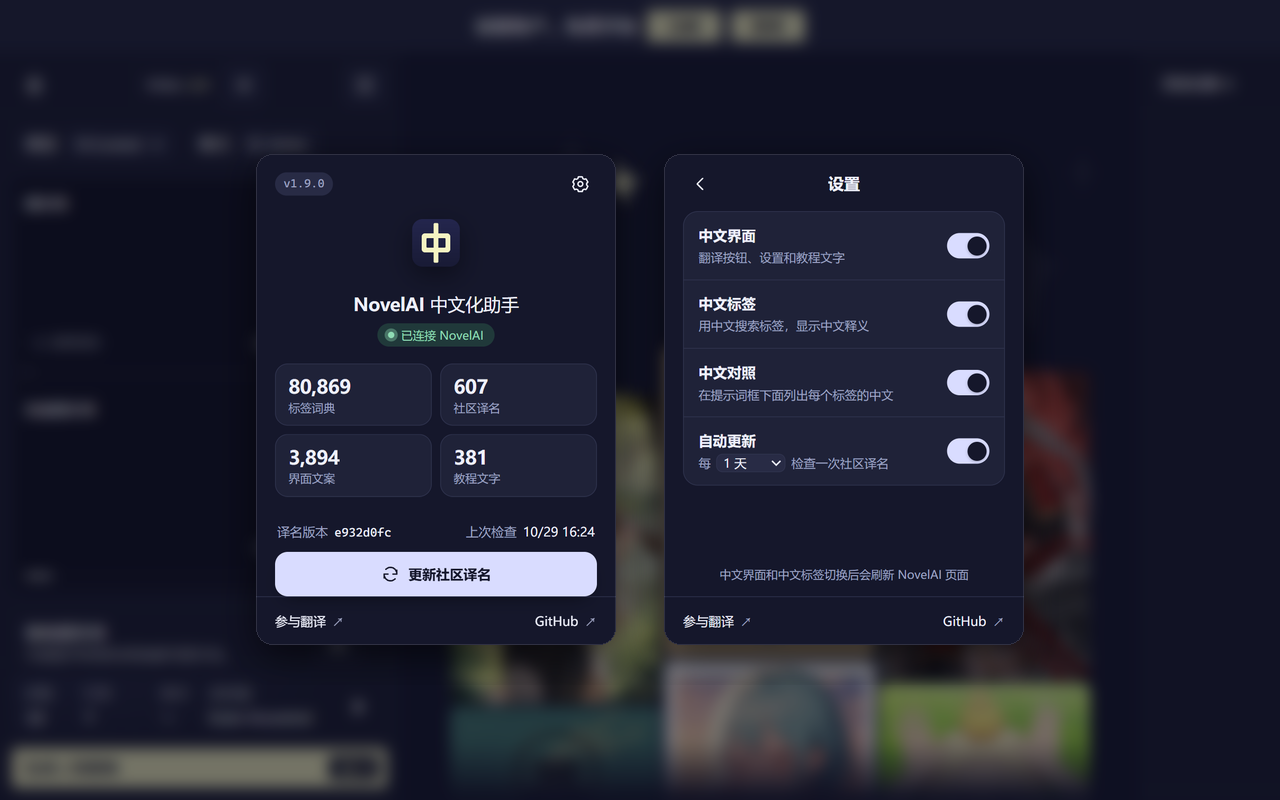
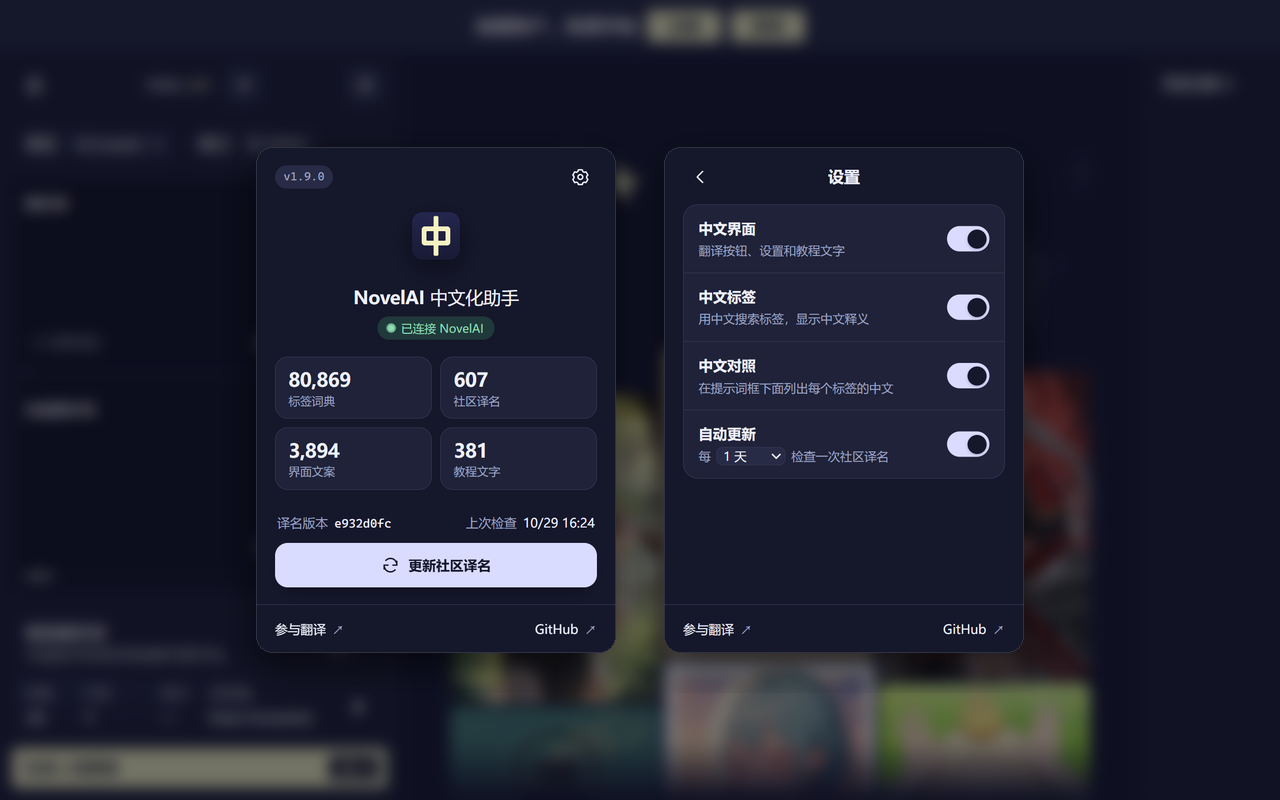
面板：去掉设置页底部的说明，更新按钮和底栏之间留出空隙
- 设置页底部「中文界面和中文标签切换后会刷新 NovelAI 页面」删掉
- 「更新社区译名」按钮原来贴着底栏的分隔线，下面留 16 px（和左右边距差不多），面板高 464 → 478 px 补回这段空间
- 重新拍面板截图，重新生成商店截图、总览和两张宣传图块

diff --git a/extension/popup.css b/extension/popup.css
@@ -52,7 +52,7 @@ code { font: 11.5px ui-monospace, "Cascadia Code", Consolas, monospace; }
 :is(button, a, input, select):focus-visible { outline: 2px solid var(--accent); outline-offset: 2px; }
 
 /* 面板大小固定：首页和设置叠在同一个框里，切换时一个缩小淡出、一个放大淡入，框的大小不变 */
-.app-shell { height: 464px; display: flex; flex-direction: column; padding: 12px 18px 0; overflow: hidden; }
+.app-shell { height: 478px; display: flex; flex-direction: column; padding: 12px 18px 0; overflow: hidden; }
 .panels { position: relative; flex: 1; min-height: 0; }
 .panel { position: absolute; inset: 0; display: flex; flex-direction: column; transition: opacity .28s var(--ease), transform .28s var(--ease), visibility 0s linear 0s; }
 .panel[hidden] { display: flex; visibility: hidden; opacity: 0; pointer-events: none; transition: opacity .28s var(--ease), transform .28s var(--ease), visibility 0s linear .28s; }
@@ -91,7 +91,8 @@ h1 span { margin-left: 5px; font-weight: 500; }
 .stat span { color: var(--muted); font-size: 11px; }
 
 /* 社区译名：版本、上次检查和更新按钮，按钮贴着底部 */
-.sync { margin-top: auto; padding-top: 12px; }
+/* 按钮和底栏的分隔线之间留出和左右边距差不多的空隙 */
+.sync { margin-top: auto; padding: 12px 0 16px; }
 .meta { display: flex; justify-content: space-between; gap: 12px; padding: 0 2px; font-size: 12px; }
 .meta div { display: flex; align-items: baseline; gap: 6px; min-width: 0; }
 .meta dt { color: var(--muted); }
@@ -134,7 +135,6 @@ div.switch:has(input:disabled) label { cursor: default; }
 .switch input:disabled { opacity: .45; cursor: default; }
 .switch select { margin: 0 2px; padding: 0 2px; border: 1px solid var(--line); border-radius: 6px; background: var(--surface-2); color: var(--text); font: inherit; cursor: pointer; }
 .switch select:disabled { opacity: .6; cursor: default; }
-.settings-note { margin-top: auto; padding-bottom: 12px; color: var(--muted); font-size: 11px; text-align: center; }
 
 /* 底栏：平时是链接；有提示时链接让开，提示在同一行淡入，不额外占位 */
 .footer { position: relative; display: flex; align-items: center; flex: none; height: 46px; margin: 0 -18px; padding: 0 18px; border-top: 1px solid var(--line); }

diff --git a/extension/popup.html b/extension/popup.html
@@ -72,7 +72,6 @@
           <input type="checkbox" id="auto" role="switch" aria-labelledby="auto-label" aria-describedby="auto-description" disabled>
         </div>
       </div>
-      <p class="settings-note">中文界面和中文标签切换后会刷新 NovelAI 页面</p>
     </section>
   </div>
 
